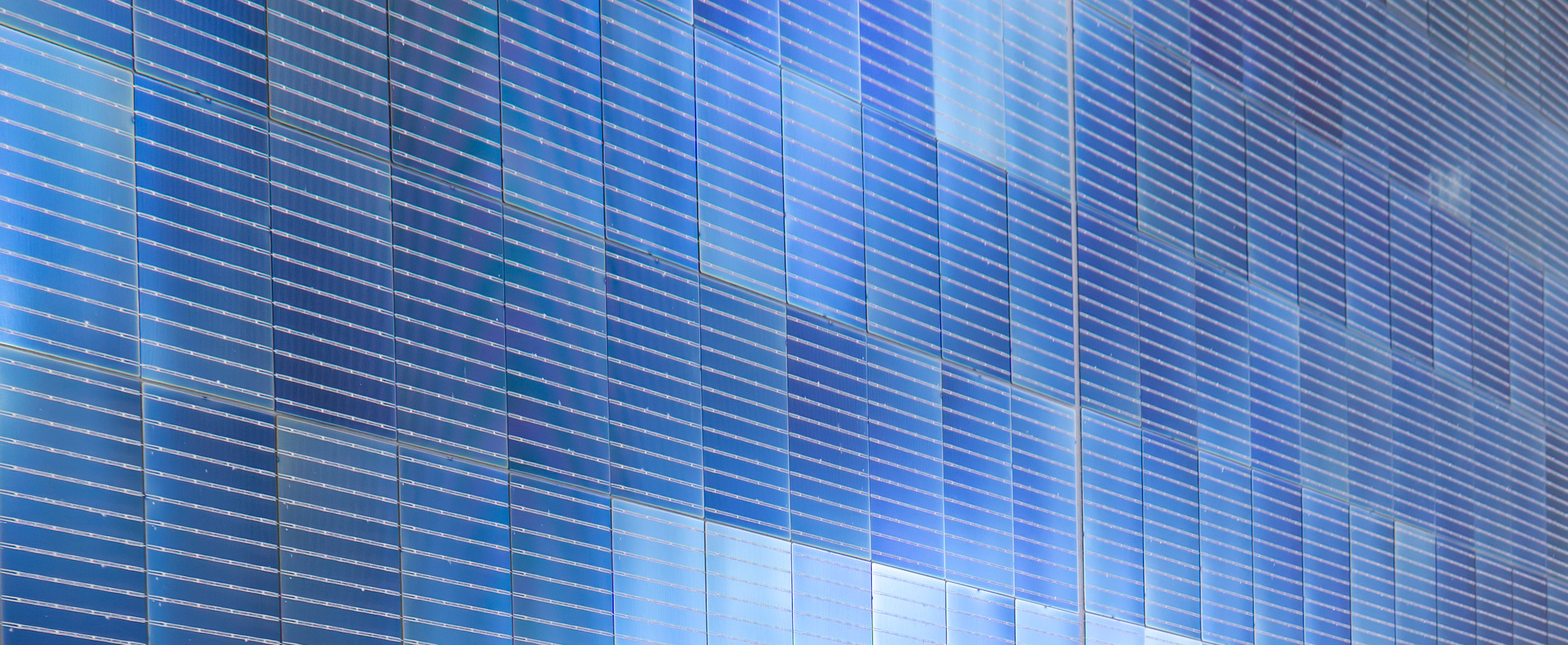
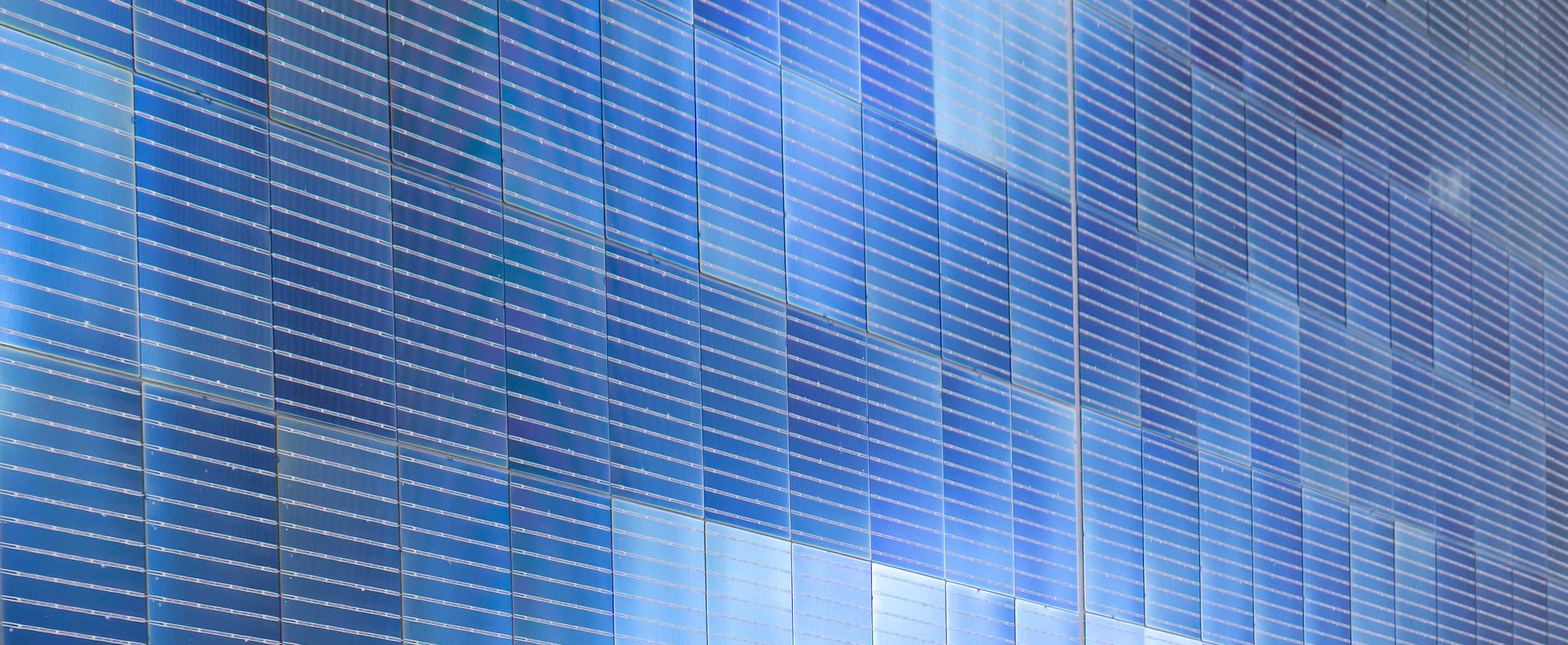
Update links from slider

diff --git a/content/english/_index.md b/content/english/_index.md
@@ -14,7 +14,7 @@ hero_slider:
       button:
         enable : true
         label : "more details"
-        link : "http://gpm-parks.ma"
+        link : "project/"
         animation : "zoomIn" # animation select from : https://daneden.github.io/animate.css/
         
     # slider item
@@ -27,7 +27,7 @@ hero_slider:
       button:
         enable : true
         label : "more details"
-        link : "http://gp-services.ma"
+        link : "project/"
         animation : "zoomIn" # animation select from : https://daneden.github.io/animate.css/
         
     # slider item
@@ -41,7 +41,7 @@ hero_slider:
       button:
         enable : true
         label : "more details"
-        link : "http://sondiale.ma"
+        link : "project/"
         animation : "zoomIn" # animation select from : https://daneden.github.io/animate.css/
 
 ################################## banner feature ############################

diff --git a/content/french/_index.md b/content/french/_index.md
@@ -13,7 +13,7 @@ hero_slider:
       button:
         enable : true
         label : "more details"
-        link : "http://gpm-parks.ma"
+        link : "fr/project/"
         animation : "zoomIn" # animation select from : https://daneden.github.io/animate.css/
 
     # slider item
@@ -26,7 +26,7 @@ hero_slider:
       button:
         enable : true
         label : "more details"
-        link : "http://gp-services.ma"
+        link : "fr/project/"
         animation : "zoomIn" # animation select from : https://daneden.github.io/animate.css/
 
     # slider item
@@ -40,7 +40,7 @@ hero_slider:
       button:
         enable : true
         label : "more details"
-        link : "http://sondiale.ma"
+        link : "fr/project/"
         animation : "zoomIn" # animation select from : https://daneden.github.io/animate.css/
 
 ################################## banner feature ############################
